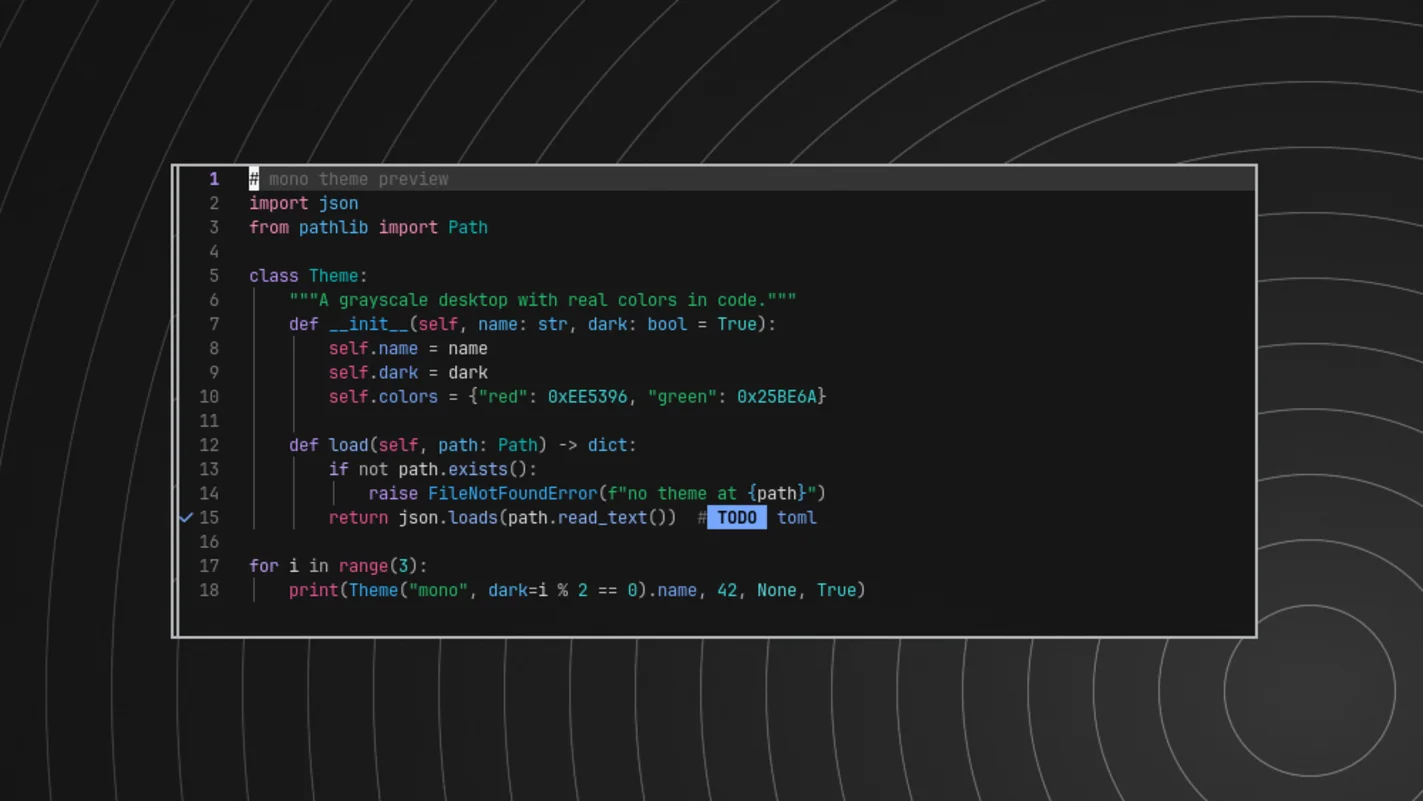
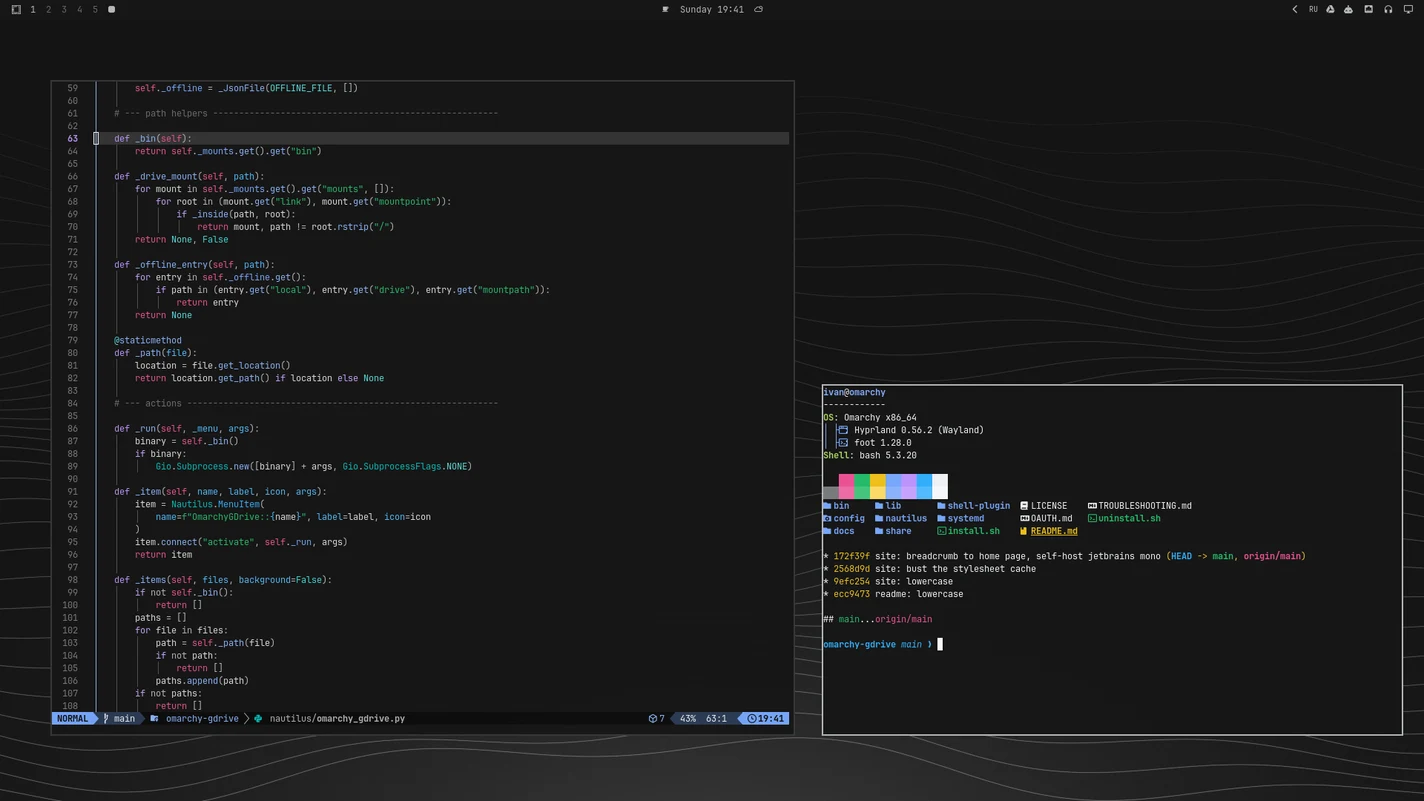
mono: real desktop screenshot

diff --git a/index.html b/index.html
@@ -155,8 +155,8 @@ omarchy theme set ember</pre>
     <h3><span class="n">05</span>mono<span class="mark" aria-hidden="true">▒</span></h3>
     <p class="tagline">a grayscale omarchy theme with real colors in the terminal.</p>
     <figure class="win">
-      <figcaption><span>mono</span><span>neovim on the rings wallpaper</span></figcaption>
-      <img class="shot" src="mono.webp" width="1424" height="801" loading="lazy" decoding="async" alt="a graphite desktop with thin gray rings, and a neovim window showing python code in pink, green, blue and purple">
+      <figcaption><span>mono</span><span>neovim and foot on the contours wallpaper</span></figcaption>
+      <img class="shot" src="mono.webp" width="1424" height="801" loading="lazy" decoding="async" alt="a graphite desktop with gray topographic lines: neovim with python code in pink, green, blue and purple, and a terminal with fastfetch, a colored file list and a git log">
     </figure>
     <ul>
       <li>the desktop is graphite and gray: window borders, the bar, menus, notifications, the lock screen. alerts show in white instead of red.</li>

diff --git a/README.md b/README.md
@@ -3,5 +3,5 @@
 my home page: [gloomyweather.github.io](https://gloomyweather.github.io).
 
 plain html and css, no build step, no scripts. edit `index.html`, push, done.
-the terminal pictures are text captures of the real apps (todoterm, jot). `ember.webp` is four of the theme's wallpapers, `mono.webp` is neovim on the mono desktop.
+the terminal pictures are text captures of the real apps (todoterm, jot). `ember.webp` is four of the theme's wallpapers, `mono.webp` is a screenshot of the mono desktop.
 the font is [jetbrains mono](https://www.jetbrains.com/lp/mono/) 2.304, served from `fonts/` (ofl, see `fonts/OFL.txt`).
